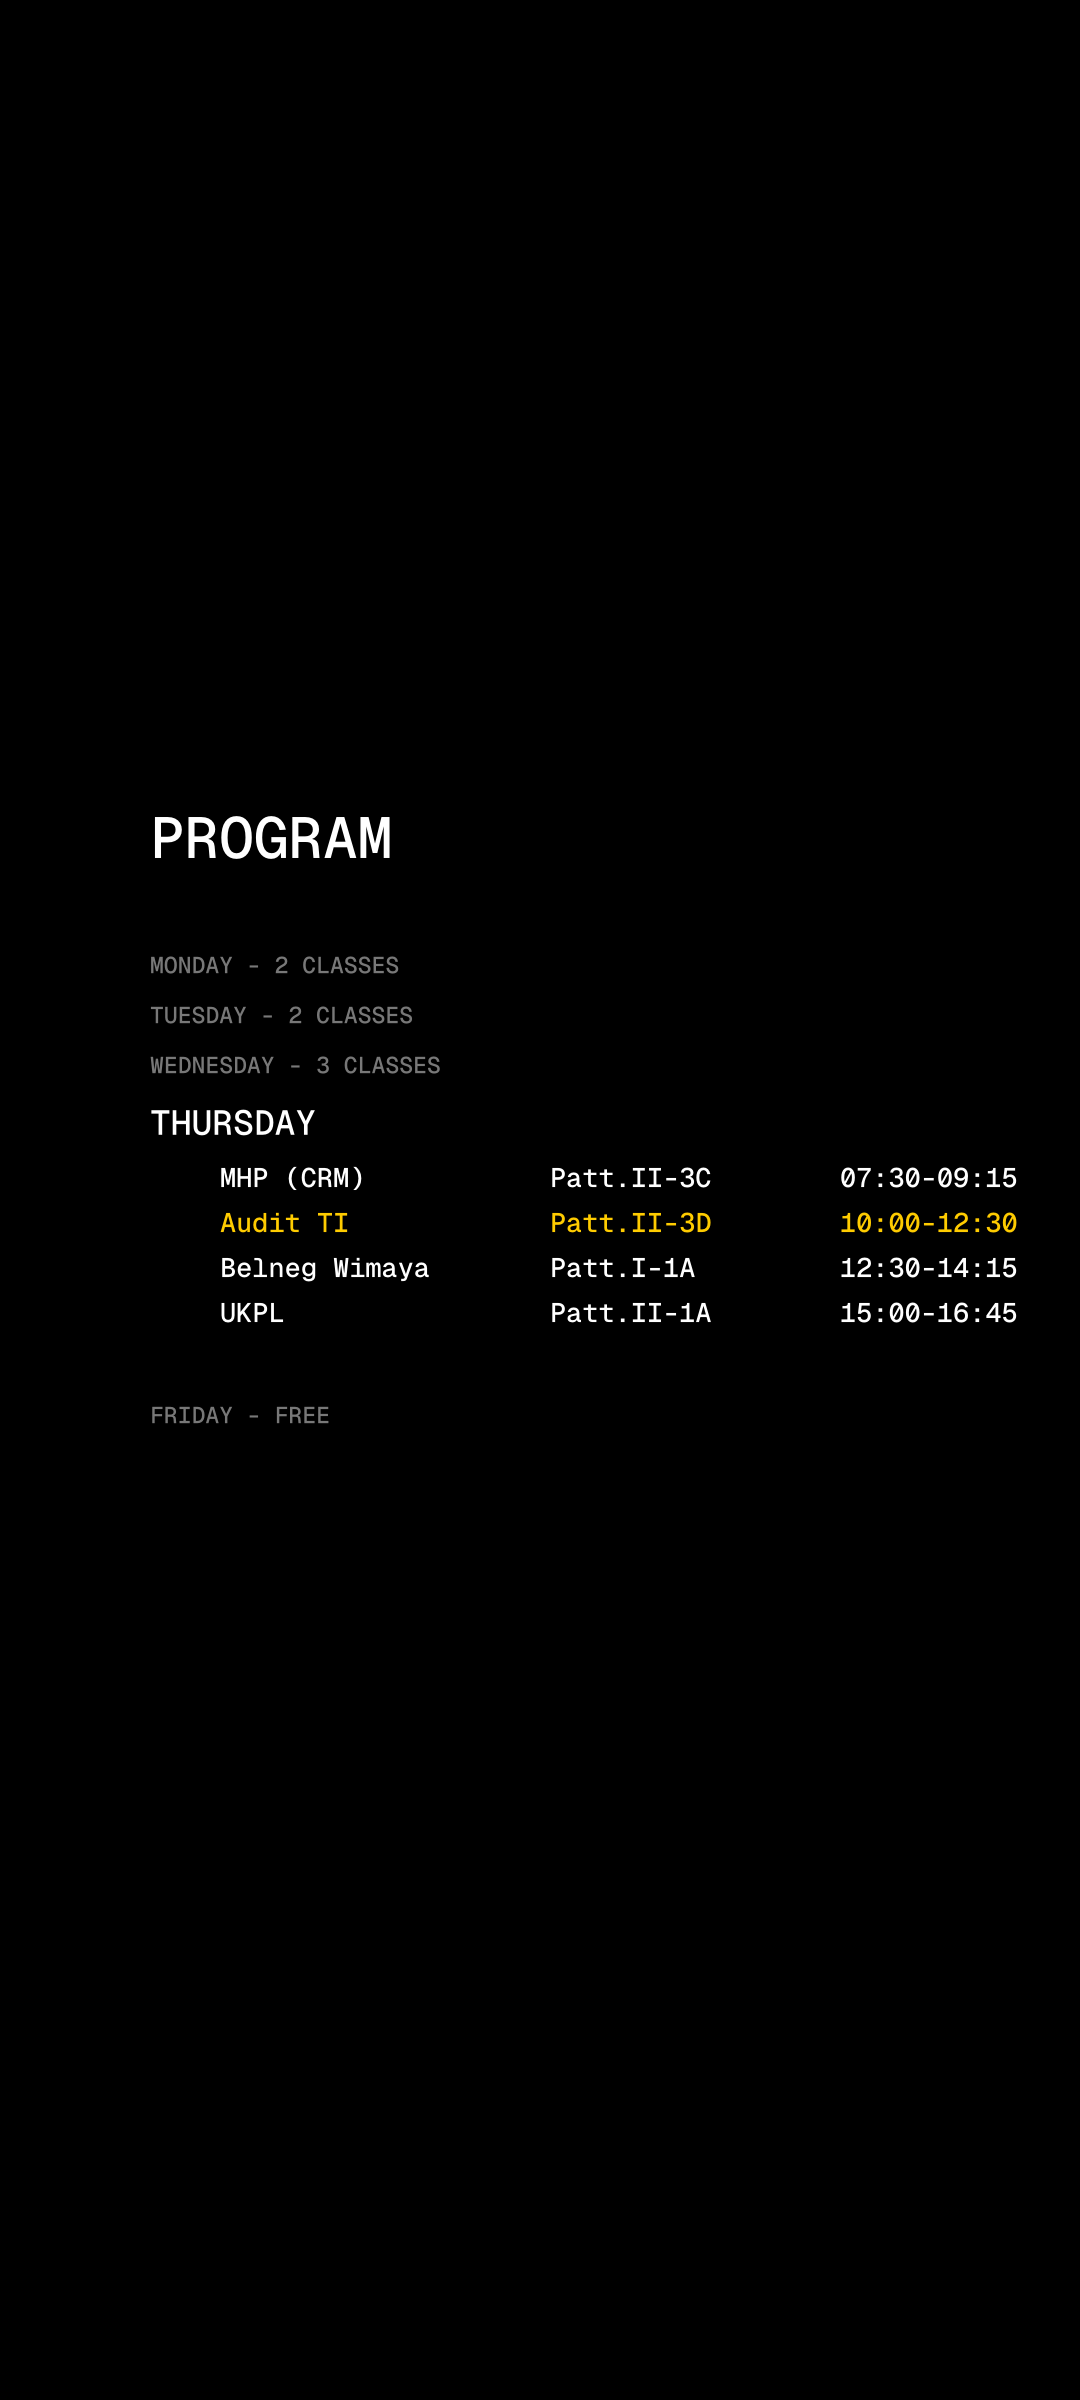
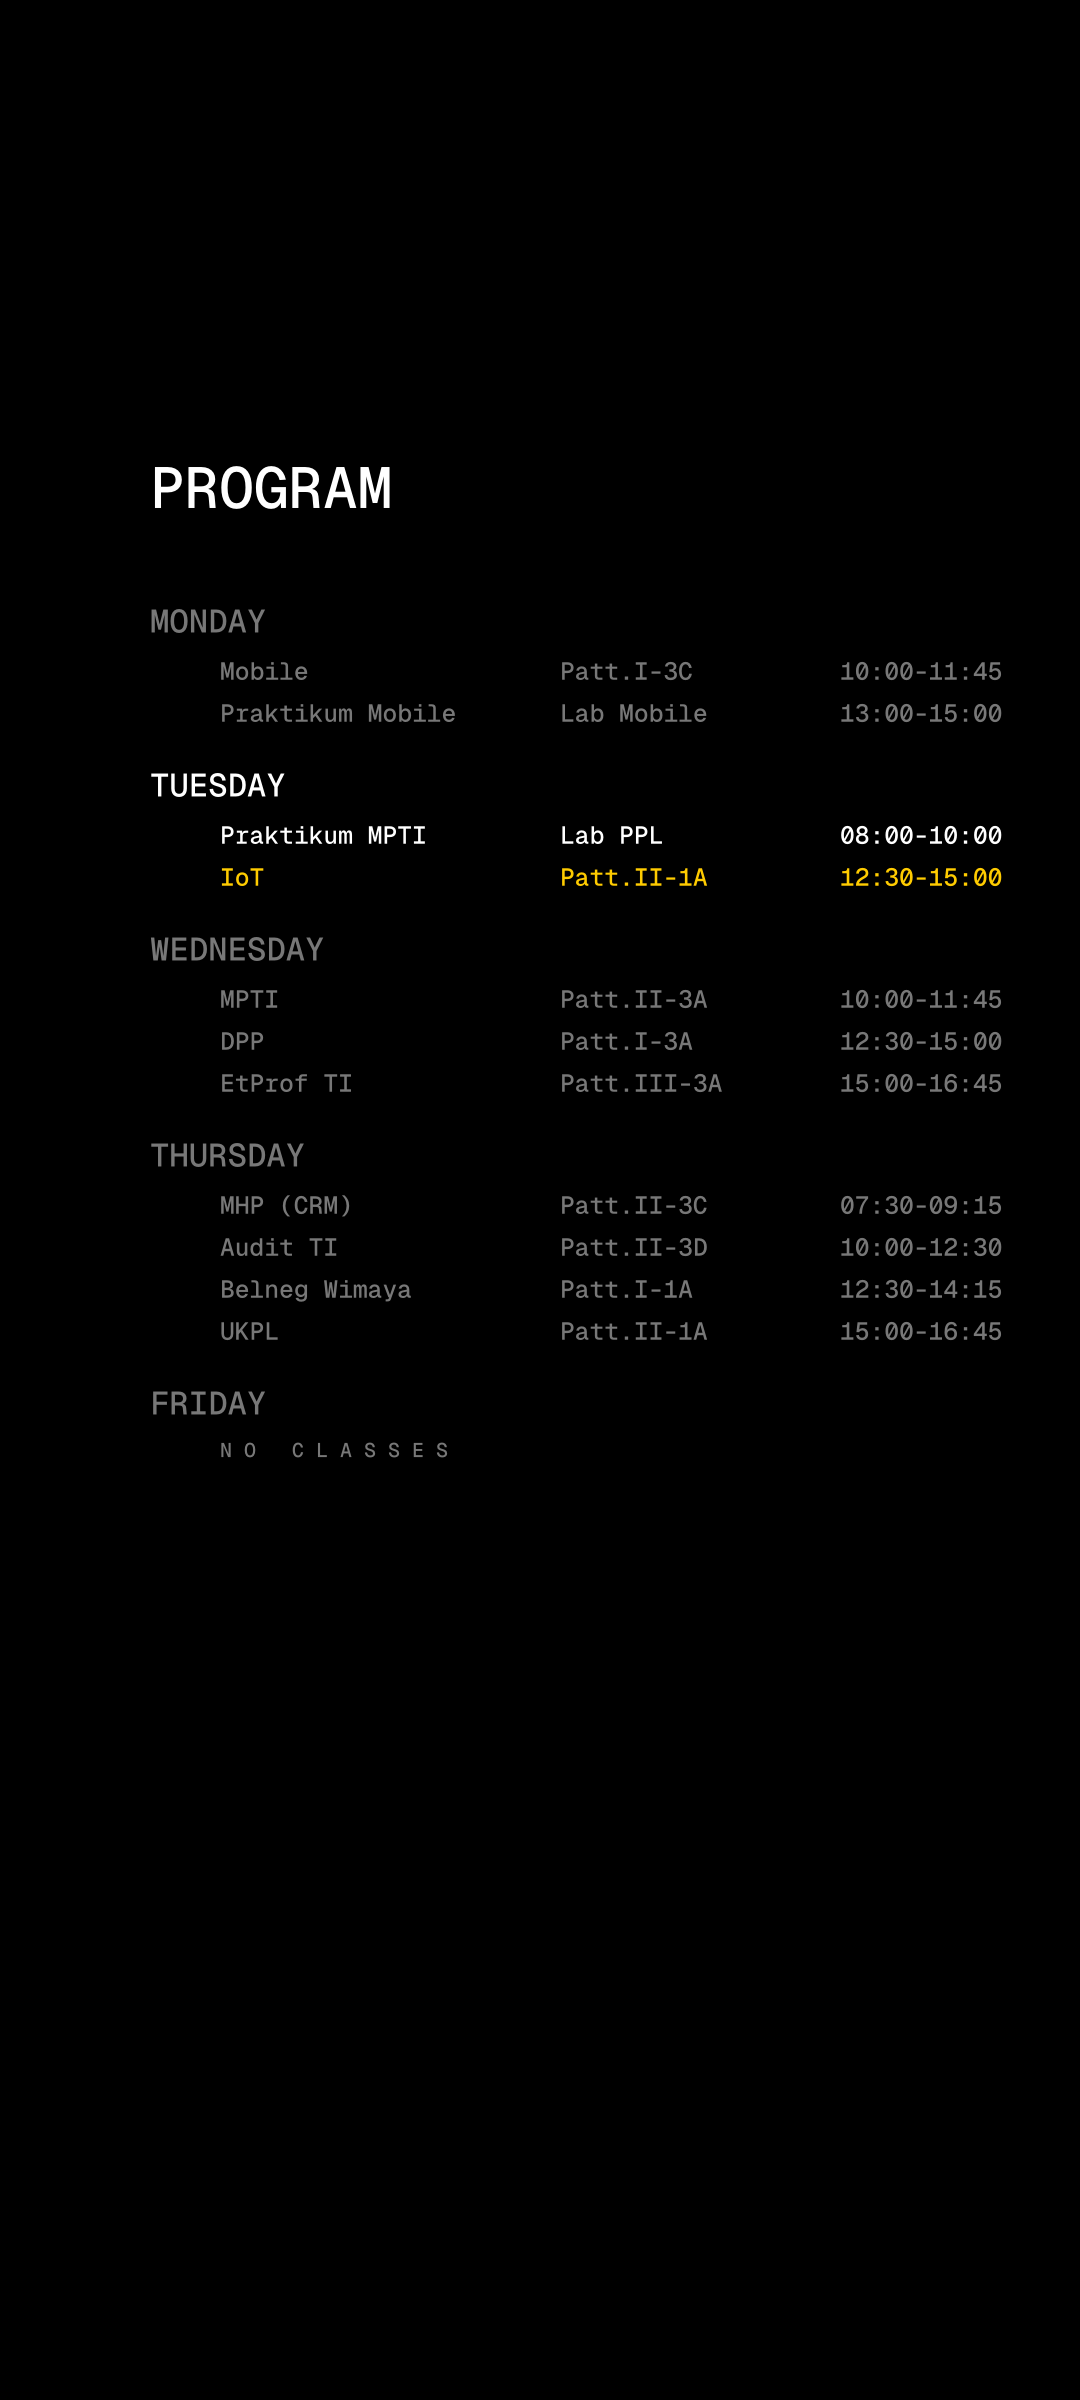
feat: render full schedule for all days with dim gray for non-today classes

diff --git a/src/main.rs b/src/main.rs
@@ -33,7 +33,6 @@ fn parse_time_to_minutes(time_str: &str) -> u32 {
 
 // Fungsi untuk mengecek apakah waktu sekarang berada di dalam rentang jam kuliah
 fn is_current_class(time_range: &str, current_minutes: u32) -> bool {
-    // Memisahkan rentang waktu berdasarkan strip (mendukung hyphen biasa '-' atau en-dash '–')
     let parts: Vec<&str> = time_range.split(|c| c == '-' || c == '–').collect();
     if parts.len() == 2 {
         let start = parse_time_to_minutes(parts[0].trim());
@@ -60,7 +59,7 @@ fn main() -> Result<(), Box<dyn std::error::Error>> {
 
     // Palet Warna
     let color_white = Rgba([255, 255, 255, 255]);
-    let color_dim = Rgba([120, 120, 120, 255]); // Abu-abu untuk badge hari lain
+    let color_dim = Rgba([120, 120, 120, 255]); // Abu-abu untuk jadwal hari lain
     let color_highlight = Rgba([255, 204, 0, 255]); // Kuning terang untuk kelas yang sedang berlangsung
 
     let mut components = Vec::new();
@@ -71,95 +70,78 @@ fn main() -> Result<(), Box<dyn std::error::Error>> {
     let current_minutes = now.hour() * 60 + now.minute();
 
     // Judul "PROGRAM"
-    components.push(Components::Text(150, 800, 75, "PROGRAM", color_white, None));
+    components.push(Components::Text(150, 450, 75, "PROGRAM", color_white, None));
 
-    let mut current_y = 950;
+    let mut current_y = 600;
 
     for daily in schedule {
         let day_upper = daily.day.to_uppercase();
         let day_str: &'static str = Box::leak(day_upper.into_boxed_str());
 
-        // Cek apakah hari pada loop ini adalah hari ini
-        if daily.day.eq_ignore_ascii_case(&current_day) {
-            // == RENDER JADWAL HARI INI SECARA PENUH ==
+        let is_today = daily.day.eq_ignore_ascii_case(&current_day);
+        let header_color = if is_today { color_white } else { color_dim };
 
-            // Nama Hari (kiri)
+        // Nama Hari
+        components.push(Components::Text(
+            150,
+            current_y,
+            42,
+            day_str,
+            header_color,
+            None,
+        ));
+        current_y += 55;
+
+        if daily.classes.is_empty() {
+            let free_color = if is_today { color_white } else { color_dim };
             components.push(Components::Text(
-                150,
+                220,
                 current_y,
-                45,
-                day_str,
-                color_white,
+                26,
+                "N O   C L A S S E S",
+                free_color,
                 None,
             ));
-            current_y += 60;
+            current_y += 55;
+        } else {
+            for class in daily.classes {
+                let subject_str: &'static str = Box::leak(class.subject.into_boxed_str());
+                let room_str: &'static str = Box::leak(class.room.into_boxed_str());
+                let time_str: &'static str = Box::leak(class.time.into_boxed_str());
 
-            if daily.classes.is_empty() {
-                components.push(Components::Text(
-                    350,
-                    current_y,
-                    25,
-                    "N O   C L A S S E S   T O D A Y",
-                    color_white,
-                    None,
-                ));
-                current_y += 90;
-            } else {
-                for class in daily.classes {
-                    let subject_str: &'static str = Box::leak(class.subject.into_boxed_str());
-                    let room_str: &'static str = Box::leak(class.room.into_boxed_str());
-                    let time_str: &'static str = Box::leak(class.time.into_boxed_str());
-
-                    // Gunakan `time_str` karena ia sudah berwujud &str yang valid,
-                    // sedangkan `class.time` sudah tidak bisa dipakai lagi.
-                    let text_color = if is_current_class(time_str, current_minutes) {
+                let text_color = if is_today {
+                    if is_current_class(time_str, current_minutes) {
                         color_highlight
                     } else {
                         color_white
-                    };
+                    }
+                } else {
+                    color_dim
+                };
 
-                    // Kolom 1: Mata Kuliah
-                    components.push(Components::Text(
-                        220,
-                        current_y,
-                        35,
-                        subject_str,
-                        text_color,
-                        None,
-                    ));
+                // Kolom 1: Mata Kuliah
+                components.push(Components::Text(
+                    220,
+                    current_y,
+                    32,
+                    subject_str,
+                    text_color,
+                    None,
+                ));
 
-                    // Kolom 2: Ruangan
-                    components.push(Components::Text(
-                        550, current_y, 35, room_str, text_color, None,
-                    ));
+                // Kolom 2: Ruangan
+                components.push(Components::Text(
+                    560, current_y, 32, room_str, text_color, None,
+                ));
 
-                    // Kolom 3: Waktu
-                    components.push(Components::Text(
-                        840, current_y, 35, time_str, text_color, None,
-                    ));
+                // Kolom 3: Waktu
+                components.push(Components::Text(
+                    840, current_y, 32, time_str, text_color, None,
+                ));
 
-                    current_y += 45;
-                }
-                current_y += 60; // Jarak antar hari
+                current_y += 42;
             }
-        } else {
-            // == RENDER HARI LAIN SEBAGAI BADGE (REKAPAN) ==
-            let class_count = daily.classes.len();
-
-            let badge_text = if class_count == 0 {
-                format!("{} - FREE", day_str)
-            } else {
-                format!("{} - {} CLASSES", day_str, class_count)
-            };
-
-            let badge_str: &'static str = Box::leak(badge_text.into_boxed_str());
-
-            // Kita tampilkan sedikit lebih kecil dan warnanya redup (abu-abu)
-            components.push(Components::Text(
-                150, current_y, 30, badge_str, color_dim, None,
-            ));
-
-            current_y += 50;
+            current_y += 25; // Jarak antar hari
         }
     }
 
